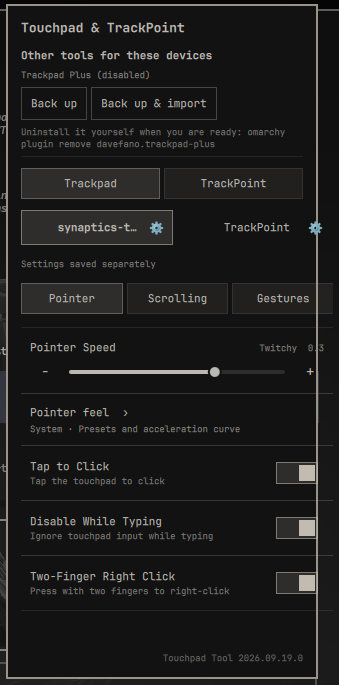
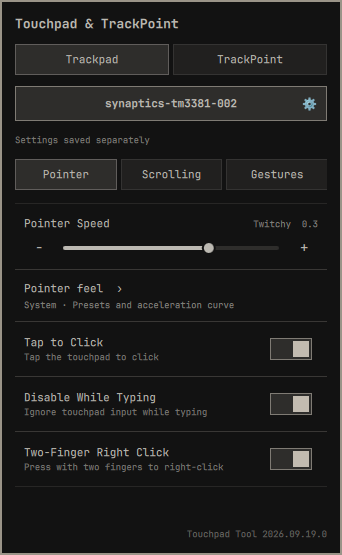
Drop the conflict section from the panel and refresh the screenshots
The panel now configures the attached devices and nothing else: it no longer
scans for, lists, disables or backs up other plugins, so it never advertises
another tool's leftovers. adopt.py is unchanged and stays available as an
opt-in command-line migration helper, documented in the README instead of the
panel, and its test suite still passes.

Both tab screenshots were re-captured from the running panel after the
body-width fix (342x555 and 360x476, cropped to the card and read back with
OCR); neither shows the removed section. docs/verification.md records the new
sizes, the live TrackPoint sensitivity 0.60 and the reduced lint diagnostic
count.

diff --git a/Panel.qml b/Panel.qml
@@ -91,51 +91,8 @@ Panel {
     return root.activeBody && typeof root.activeBody[name] === "function" ? root.activeBody[name] : null
   }
 
-  // ---- Other tools that manage these devices ----
-  // Nothing here disables or removes anything by itself: every action is a press
-  // in the panel, and each one backs up first.
-  property var adoptOthers: []
-  property var adoptLegacy: []
-  property string adoptStatus: ""
-  property string adoptRemoveHint: ""
-  readonly property bool adoptEnabledOthers: adoptOthers.some(function(plugin) { return plugin.enabled })
-  readonly property bool adoptNeedsAttention: adoptOthers.length > 0 || adoptLegacy.length > 0
-  readonly property string adoptSummary: {
-    var parts = []
-    for (var i = 0; i < adoptOthers.length; i++)
-      parts.push(adoptOthers[i].name + (adoptOthers[i].enabled ? " (enabled)" : " (disabled)"))
-    for (var j = 0; j < adoptLegacy.length; j++)
-      parts.push("left-over settings in " + String(adoptLegacy[j].file).split("/").pop())
-    return parts.join(" · ")
-  }
-
   function bounded(seconds, argv) {
     return ["timeout", "-k", "2", String(seconds)].concat(argv)
-  }
-
-  function refreshAdopt() {
-    if (!adoptProc.running && !adoptAction.running) adoptProc.running = true
-  }
-
-  function receiveAdopt(raw) {
-    try {
-      var data = JSON.parse(raw)
-      if (data.error) { adoptStatus = data.error; return }
-      adoptOthers = data.others || []
-      adoptLegacy = data.legacy || []
-      adoptRemoveHint = (data.remove_hint || []).join(" · ")
-      adoptStatus = ""
-    } catch (error) { adoptStatus = "Could not check for other input tools." }
-  }
-
-  function runAdopt(action, pluginId) {
-    if (adoptAction.running) return
-    adoptStatus = action === "backup" ? "Backing up…"
-      : action === "import" ? "Backing up, then importing…" : "Backing up, then disabling…"
-    var args = ["python3", "-B", root.adoptBackend, action]
-    if (pluginId) args.push(pluginId)
-    adoptAction.command = root.bounded(60, args)
-    adoptAction.running = true
   }
 
   implicitWidth: button.implicitWidth
@@ -149,42 +106,11 @@ Panel {
     else root.toggle()
   }
 
-  Component.onCompleted: { detectDevices(); refreshAdopt() }
+  Component.onCompleted: detectDevices()
 
   onOpenedChanged: {
-    if (opened) { detectDevices(); refreshAdopt() }
+    if (opened) detectDevices()
   }
-
-  Process {
-    id: adoptProc
-    command: root.bounded(20, ["python3", "-B", root.adoptBackend, "status"])
-    stdout: StdioCollector {
-      waitForEnd: true
-      onStreamFinished: root.receiveAdopt(String(text))
-    }
-    onExited: function(code, status) {
-      if (code !== 0 && root.adoptStatus === "") root.adoptStatus = "Could not check for other input tools."
-    }
-  }
-
-  Process {
-    id: adoptAction
-    stdout: StdioCollector {
-      waitForEnd: true
-      onStreamFinished: {
-        try {
-          var data = JSON.parse(String(text))
-          if (data.error) root.adoptStatus = data.error
-          else if (data.disabled) root.adoptStatus = "Disabled " + data.disabled + " · uninstall it with: " + data.uninstall_hint
-          else if (data.actions) root.adoptStatus = data.actions.length ? "Imported: " + data.actions.join(", ") : "Nothing left to import."
-          else root.adoptStatus = "Backed up to " + data.folder
-        } catch (error) { root.adoptStatus = "That action did not finish." }
-      }
-    }
-    onExited: function(code, status) { Qt.callLater(function() { root.refreshAdopt() }) }
-  }
-
-  readonly property string adoptBackend: decodeURIComponent(String(Qt.resolvedUrl("adopt.py")).replace(/^file:\/\//, ""))
 
   Process {
     id: detectProc
@@ -310,84 +236,6 @@ Panel {
           font.family: root.bar.fontFamily
           font.pixelSize: Style.font.title
           font.bold: true
-        }
-
-        // Another plugin or a left-over block also manages these devices. Each
-        // action backs up first; uninstalling stays the user's own step.
-        Column {
-          visible: root.adoptNeedsAttention
-          width: parent.width
-          spacing: Style.space(6)
-
-          Text {
-            width: parent.width
-            text: "Other tools for these devices"
-            color: root.bar.foreground
-            font.family: root.bar.fontFamily
-            font.pixelSize: Style.font.body
-            font.bold: true
-          }
-
-          Text {
-            width: parent.width
-            text: root.adoptSummary
-            color: Qt.alpha(root.bar.foreground, 0.7)
-            wrapMode: Text.Wrap
-            font.family: root.bar.fontFamily
-            font.pixelSize: Style.font.caption
-          }
-
-          Row {
-            width: parent.width
-            spacing: Style.space(4)
-            Button {
-              text: "Back up"
-              foreground: root.bar.foreground
-              fontFamily: root.bar.fontFamily
-              bordered: true
-              focusable: true
-              onClicked: root.runAdopt("backup")
-            }
-            Button {
-              visible: root.adoptEnabledOthers
-              text: "Back up & disable"
-              foreground: root.bar.foreground
-              fontFamily: root.bar.fontFamily
-              bordered: true
-              focusable: true
-              onClicked: root.runAdopt("disable", root.adoptOthers[0].id)
-            }
-            Button {
-              text: "Back up & import"
-              foreground: root.bar.foreground
-              fontFamily: root.bar.fontFamily
-              bordered: true
-              focusable: true
-              onClicked: root.runAdopt("import")
-            }
-          }
-
-          Text {
-            visible: root.adoptRemoveHint !== ""
-            width: parent.width
-            text: "Uninstall it yourself when you are ready: " + root.adoptRemoveHint
-            color: Qt.alpha(root.bar.foreground, 0.6)
-            wrapMode: Text.Wrap
-            font.family: root.bar.fontFamily
-            font.pixelSize: Style.font.caption
-          }
-
-          Text {
-            visible: root.adoptStatus !== ""
-            width: parent.width
-            text: root.adoptStatus
-            color: Qt.alpha(root.bar.foreground, 0.75)
-            wrapMode: Text.Wrap
-            font.family: root.bar.fontFamily
-            font.pixelSize: Style.font.caption
-          }
-
-          PanelSeparator { width: parent.width }
         }
 
         // Device tabs: only worth showing when more than one kind is attached.

diff --git a/docs/verification.md b/docs/verification.md
@@ -18,7 +18,7 @@ Environment: Omarchy 4.0 / Quattro shell, plugin `local.touchpad-tool` linked at
 | `python3 test_overview_control.py` | 23 passed |
 | `python3 test_overview_ipc.py` | 2 passed |
 | `python3 test_ipc.py` | all five IPC commands verified |
-| `node test-devicetabs.js` | 6 passed |
+| `node test-devicetabs.js` | 7 passed |
 | `node test-selection.js` | passed |
 | `node test-overview-model.js` | passed |
 | `qmltestrunner tst_curve.qml` | 12 passed, 0 failed |
@@ -27,7 +27,7 @@ Environment: Omarchy 4.0 / Quattro shell, plugin `local.touchpad-tool` linked at
 
 ## (b) QML lint
 
-`python3 lint-qml.py` → `qmllint passed for 14 QML sources; 82 known host
+`python3 lint-qml.py` → `qmllint passed for 14 QML sources; 62 known host
 metadata diagnostics` (dynamic bar/style properties and `QProcess::ExitStatus`
 only). No unrelated warnings.
 
@@ -64,8 +64,11 @@ enum values are refused before anything is written.
 - Retired ids survive only in `adopt.py`'s legacy-marker table (the migration
   input) and in the upstream copies under `docs/upstream/`; no code writes to
   `~/.config/hypr/input.lua` for device settings.
+- Nothing in the panel process tree touches another plugin: `Panel.qml` holds no
+  reference to `adopt.py` (`grep -n adopt Panel.qml` is empty), so the migration
+  helper only runs when the user runs it.
 - No `remove` call exists: `adopt.py` only runs `omarchy plugin disable`, and the
-  removal command is text shown to the user.
+  removal command is text the user prints and runs.
 
 ## (f) Success criteria
 
@@ -81,10 +84,12 @@ enum values are refused before anything is written.
    actions with per-app profiles and the bar-icon choice.
 4. One write path (state JSON + generated Lua), one validate/reload/rollback
    path, one code path for sensitivity/scroll/tap shared by both devices.
-5. Other plugins and legacy blocks are detected; actions are Back up, Back up &
-   disable, Back up & import — each backs up first and runs only on a press.
-   Disabling `davefano.trackpad-plus` was performed live with a backup first;
-   removal remains an instruction for the user.
+5. Another plugin's settings and legacy blocks can still be migrated, but only
+   by the user running `adopt.py` from the command line
+   (`status` / `backup` / `import` / `disable <plugin-id>`). The panel itself no
+   longer scans for, displays, disables or backs up other plugins: it shows the
+   attached devices and their settings and nothing else. Removal remains an
+   instruction the user runs.
 6. Suites, lint and QML tests pass; every control was driven and verified as in
    (d).
 
@@ -113,20 +118,24 @@ The merge also needed a shell restart to pick up plugin QML changes
 
 ## Screenshots (verified, not just captured)
 
-`assets/screenshots/trackpad-tab.png` (339×685) and
-`assets/screenshots/trackpoint-tab.png` (357×606) were captured from the running
+`assets/screenshots/trackpad-tab.png` (342×555) and
+`assets/screenshots/trackpoint-tab.png` (360×476) were captured from the running
 panel and then read back with OCR, because this session cannot view images:
 
 | Shot | OCR found |
 |---|---|
-| Trackpad | `Touchpad & TrackPoint`, `Trackpad TrackPoint`, the device name, `Other tools for these devices` / `Trackpad Plus (disabled)` / `Back up` / `Back up & import` / uninstall hint, `Pointer Scrolling Gestures`, `Pointer Speed`, `Pointer feel`, `Tap to Click` |
-| TrackPoint | `TrackPoint`, `Pointer sensitivity 0.35`, `Slower`/`Faster`, `Reset to default`, `ThinkPad | Red dot | Color logo`, `Middle button` |
+| Trackpad | `Touchpad & TrackPoint`, `Trackpad TrackPoint`, the device name, `Settings saved separately`, `Pointer Scrolling Gestures`, `Pointer Speed`, `Pointer feel`, `Tap to Click`, `Disable While Typing`, `Two-Finger Right Click` |
+| TrackPoint | `TrackPoint`, `Pointer sensitivity 0.60`, `Slower`/`Faster`, `Reset to default`, `ThinkPad | Red dot | Color logo`, `Middle button` |
 
 Both crops are diffed against a panel-closed baseline, so the images contain the
-panel card only — no terminal or desktop content. The TrackPoint shot was taken
-with device detection temporarily restricted to the TrackPoint tab so the tab
-could be shown without a synthetic click; that change was reverted and the shell
-restarted (the two-tab row is present again in the live panel).
+panel card only — no terminal or desktop content; the card edges were confirmed
+pixel by pixel against the compositor's `omarchy-keyboard-panel` surface. Neither
+shot contains an `Other tools for these devices` line, which is the visible proof
+that the conflict section is gone. The TrackPoint shot was taken with device
+detection temporarily restricted to the TrackPoint tab so the tab could be shown
+without a synthetic click; that change was reverted (`git checkout -- devices.py`,
+`devices.py` byte-identical afterwards and again reporting `tabs:
+["trackpad", "trackpoint"]`) and the shell restarted.
 
 ## Residual risk
 

diff --git a/README.md b/README.md
@@ -20,7 +20,7 @@ Not an official Omarchy project and not endorsed by the Omarchy team.
 <table>
   <tr><th>Trackpad</th><th>TrackPoint</th></tr>
   <tr>
-    <td valign="top"><img src="assets/screenshots/trackpad-tab.png" alt="Trackpad tab: device row, Pointer/Scrolling/Gestures tabs and the other-tools section" width="300"></td>
+    <td valign="top"><img src="assets/screenshots/trackpad-tab.png" alt="Trackpad tab: device row, Pointer/Scrolling/Gestures tabs and the pointer controls" width="300"></td>
     <td valign="top"><img src="assets/screenshots/trackpoint-tab.png" alt="TrackPoint tab: sensitivity slider, bar icon choice and middle-button actions" width="300"></td>
   </tr>
 </table>
@@ -68,27 +68,29 @@ Or straight from git:
 omarchy plugin add https://github.com/burgerwdev/omarchy-touchpad-tool.git --enable
 ```
 
-## Other tools for these devices
+## Migrating from another plugin
 
-If another trackpad or TrackPoint plugin is installed, or if the tools this one
-replaces left blocks behind in your Hyprland config, the panel shows an
-**Other tools for these devices** section. Each action backs up first and only
-runs when you press it:
+The panel configures devices and nothing else — it never touches another plugin.
+If you installed this widget while `omarchy-trackpad-plus` or
+`omarchy-trackpoint` is still present, that migration is an opt-in command you
+run yourself from the plugin folder. Every action backs up first, and none of
+them runs on its own:
 
-| Action | What it does |
+| Command | What it does |
 |---|---|
-| **Back up** | Copies every file this plugin owns or edits into `~/.local/state/omarchy/touchpad-tool/backups/<timestamp>/` (private, with a manifest) |
-| **Back up & disable** | Backs up, then runs `omarchy plugin disable <id>` for the other plugin |
-| **Back up & import** | Backs up, takes over the old TrackPoint sensitivity, and renames legacy gesture/middle-button blocks to this plugin |
+| `python3 adopt.py status` | Reports other trackpad/TrackPoint plugins and left-over managed blocks, changing nothing |
+| `python3 adopt.py backup` | Copies every file this plugin owns or edits into `~/.local/state/omarchy/touchpad-tool/backups/<timestamp>/` (private, with a manifest) |
+| `python3 adopt.py import` | Backs up, takes over the old TrackPoint sensitivity, and renames legacy gesture/middle-button blocks to this plugin |
+| `python3 adopt.py disable <plugin-id>` | Backs up, then runs `omarchy plugin disable <plugin-id>` |
 
-Uninstalling is deliberately left to you; the panel prints the command to run:
+Uninstalling another plugin stays your own step:
 
 ```sh
 omarchy plugin remove <plugin-id>
 ```
 
-This tool never removes another plugin on its own. Removing one is your step, so
-a misjudged click can never delete something you installed.
+The tool never calls `remove`, so a misjudged command can never delete something
+you installed.
 
 ## What it changes on your system
 
@@ -99,7 +101,7 @@ a misjudged click can never delete something you installed.
 | You configure the middle button | `~/.local/state/omarchy/trackpoint/middle.json` | Middle-button profiles and actions |
 | You press **Enable middle button actions** | `~/.config/hypr/bindings.lua` | Adds a marked block of binds between `-- BEGIN local.touchpad-tool middle button` and `-- END`, and hands the middle button back from hold-to-scroll |
 | You apply **Gestures** | `~/.config/hypr/input.lua` | Gesture rules between `-- BEGIN local.touchpad-tool gestures` and `-- END`, with the original settings kept for restore |
-| Any conflict action | `~/.local/state/omarchy/touchpad-tool/backups/` | Timestamped copies of the files above |
+| `python3 adopt.py backup` | `~/.local/state/omarchy/touchpad-tool/backups/` | Timestamped copies of the files above |
 
 Every write is checked with `hyprctl configerrors` and put back if Hyprland
 reports a problem. Pointer and scrolling settings are saved separately per

diff --git a/DEVELOPMENT.md b/DEVELOPMENT.md
@@ -20,8 +20,8 @@ The two tools now share one device-settings path, and each keeps its own UI
 inside one tab:
 
 - `Panel.qml` is the only bar widget: bar icon (wordmark, red dot or color
-  logo), the popup, keyboard routing, popup sizing, the device tab row, and the
-  conflict section. It loads one tab body at a time.
+  logo), the popup, keyboard routing, popup sizing and the device tab row. It
+  loads one tab body at a time and mentions no other plugin.
 - `TrackpadPanel.qml` / `TrackPointPanel.qml` are the tab bodies. They keep the
   layout, controls and styling of the tools they came from, and expose
   `contentWidth`, `contentHeight`, `moveCursor`, `togglePrimary` and the
@@ -39,9 +39,10 @@ inside one tab:
 - `gestures.py` still owns gesture rules in the user's `input.lua`, with its own
   backup and restore flow, and `overview-control.py` plus `overview/` remain the
   overview provider.
-- `adopt.py` detects other plugins and legacy managed blocks, backs up every
-  file this plugin owns or edits, imports legacy settings, and can disable
-  another plugin. It never removes one.
+- `adopt.py` is a command-line migration helper, not panel UI: it detects other
+  plugins and legacy managed blocks, backs up every file this plugin owns or
+  edits, imports legacy settings, and can disable another plugin. It never
+  removes one, and nothing in it runs unless the user runs it.
 
 ## Release versions
 
